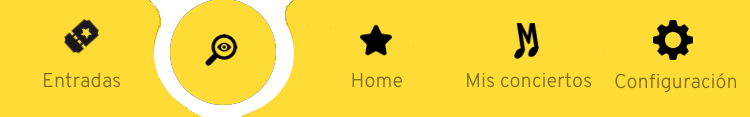
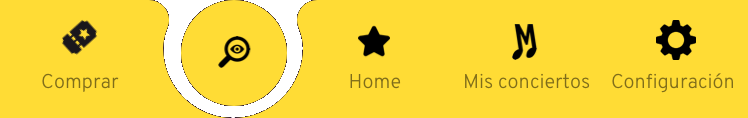
footer acabado

diff --git a/rithme/src/components/Routes.js b/rithme/src/components/Routes.js
@@ -5,15 +5,21 @@ import PageInicio from "./PageInicio";
 import Entradas from "./Entradas";
 import Bienvenido from "./Bienvenido";
 import FormMusical from "./FormMusical";
+import Buscar from "./Buscar";
+import Conciertos from "./Conciertos";
+import Configuracion from "./Configuracion";
 
 function Routes() {
   return (
     <Switch>
-      <Route exact path="/bienvenido" component={Bienvenido}/>
-      <Route exact path="/entradas" component={Entradas}/>
-      <Route exact path="/formMusical" component={FormMusical}/>
-      <Route exact path="/form" component={Form}/>
-      <Route exact path="/" component={PageInicio}/>
+      <Route exact path="/bienvenido" component={Bienvenido} />
+      <Route exact path="/entradas" component={Entradas} />
+      <Route exact path="/formMusical" component={FormMusical} />
+      <Route exact path="/form" component={Form} />
+      <Route exact path="/" component={PageInicio} />
+      <Route exact path="/buscar" component={Buscar} />
+      <Route exact path="/conciertos" component={Conciertos} />
+      <Route exact path="/configuracion" component={Configuracion} />
     </Switch>
   );
 }

diff --git a/rithme/src/components/Footer.js b/rithme/src/components/Footer.js
@@ -17,10 +17,10 @@ function Footer(props) {
     <div className="container">
       <div className="router-links">
         <Link to="/entradas" className="link"></Link>
-        <Link to="#" className="link"></Link>
+        <Link to="/buscar" className="link"></Link>
         <Link to="/bienvenido" className="link"></Link>
-        <Link to="#" className="link"></Link>
-        <Link to="#" className="link"></Link>
+        <Link to="/conciertos" className="link"></Link>
+        <Link to="/configuracion" className="link"></Link>
       </div>
       <footer className="b-footer">
         <img src={srcImage} className="imageCss"></img>

diff --git a/rithme/src/components/Buscar.js b/rithme/src/components/Buscar.js
@@ -1,0 +1,16 @@
+import React from "react";
+import "./assets/styles/buscar.css";
+import Footer from "./Footer";
+import Header from "./Header";
+
+function Buscar() {
+  return (
+    <div className="contenedor_g">
+      <Header />
+
+      <Footer changeNav="buscar" />
+    </div>
+  );
+}
+
+export default Buscar;

diff --git a/rithme/src/components/Configuracion.js b/rithme/src/components/Configuracion.js
@@ -1,0 +1,16 @@
+import React from "react";
+
+import Footer from "./Footer";
+import Header from "./Header";
+
+function Configuracion() {
+  return (
+    <div className="contenedor_g">
+      <Header />
+
+      <Footer changeNav="confi" />
+    </div>
+  );
+}
+
+export default Configuracion;

diff --git a/rithme/src/components/Conciertos.js b/rithme/src/components/Conciertos.js
@@ -1,0 +1,16 @@
+import React from "react";
+
+import Footer from "./Footer";
+import Header from "./Header";
+
+function Conciertos() {
+  return (
+    <div className="contenedor_g">
+      <Header />
+
+      <Footer changeNav="conciertos" />
+    </div>
+  );
+}
+
+export default Conciertos;

diff --git a/rithme/src/components/assets/styles/buscar.css b/rithme/src/components/assets/styles/buscar.css
@@ -1,0 +1,7 @@
+.contenedor_g {
+  background-color: #110033;
+  font-family: Roboto, Helvetica, sans-serif;
+  text-align: center;
+  width: 100%;
+  height: 100vh;
+}

diff --git a/rithme/src/components/Form.js b/rithme/src/components/Form.js
@@ -70,8 +70,6 @@ function Form() {
           id="continue"
         />
       </form>
-
-      <Footer changeNav="conf" />
     </div>
   );
 }
